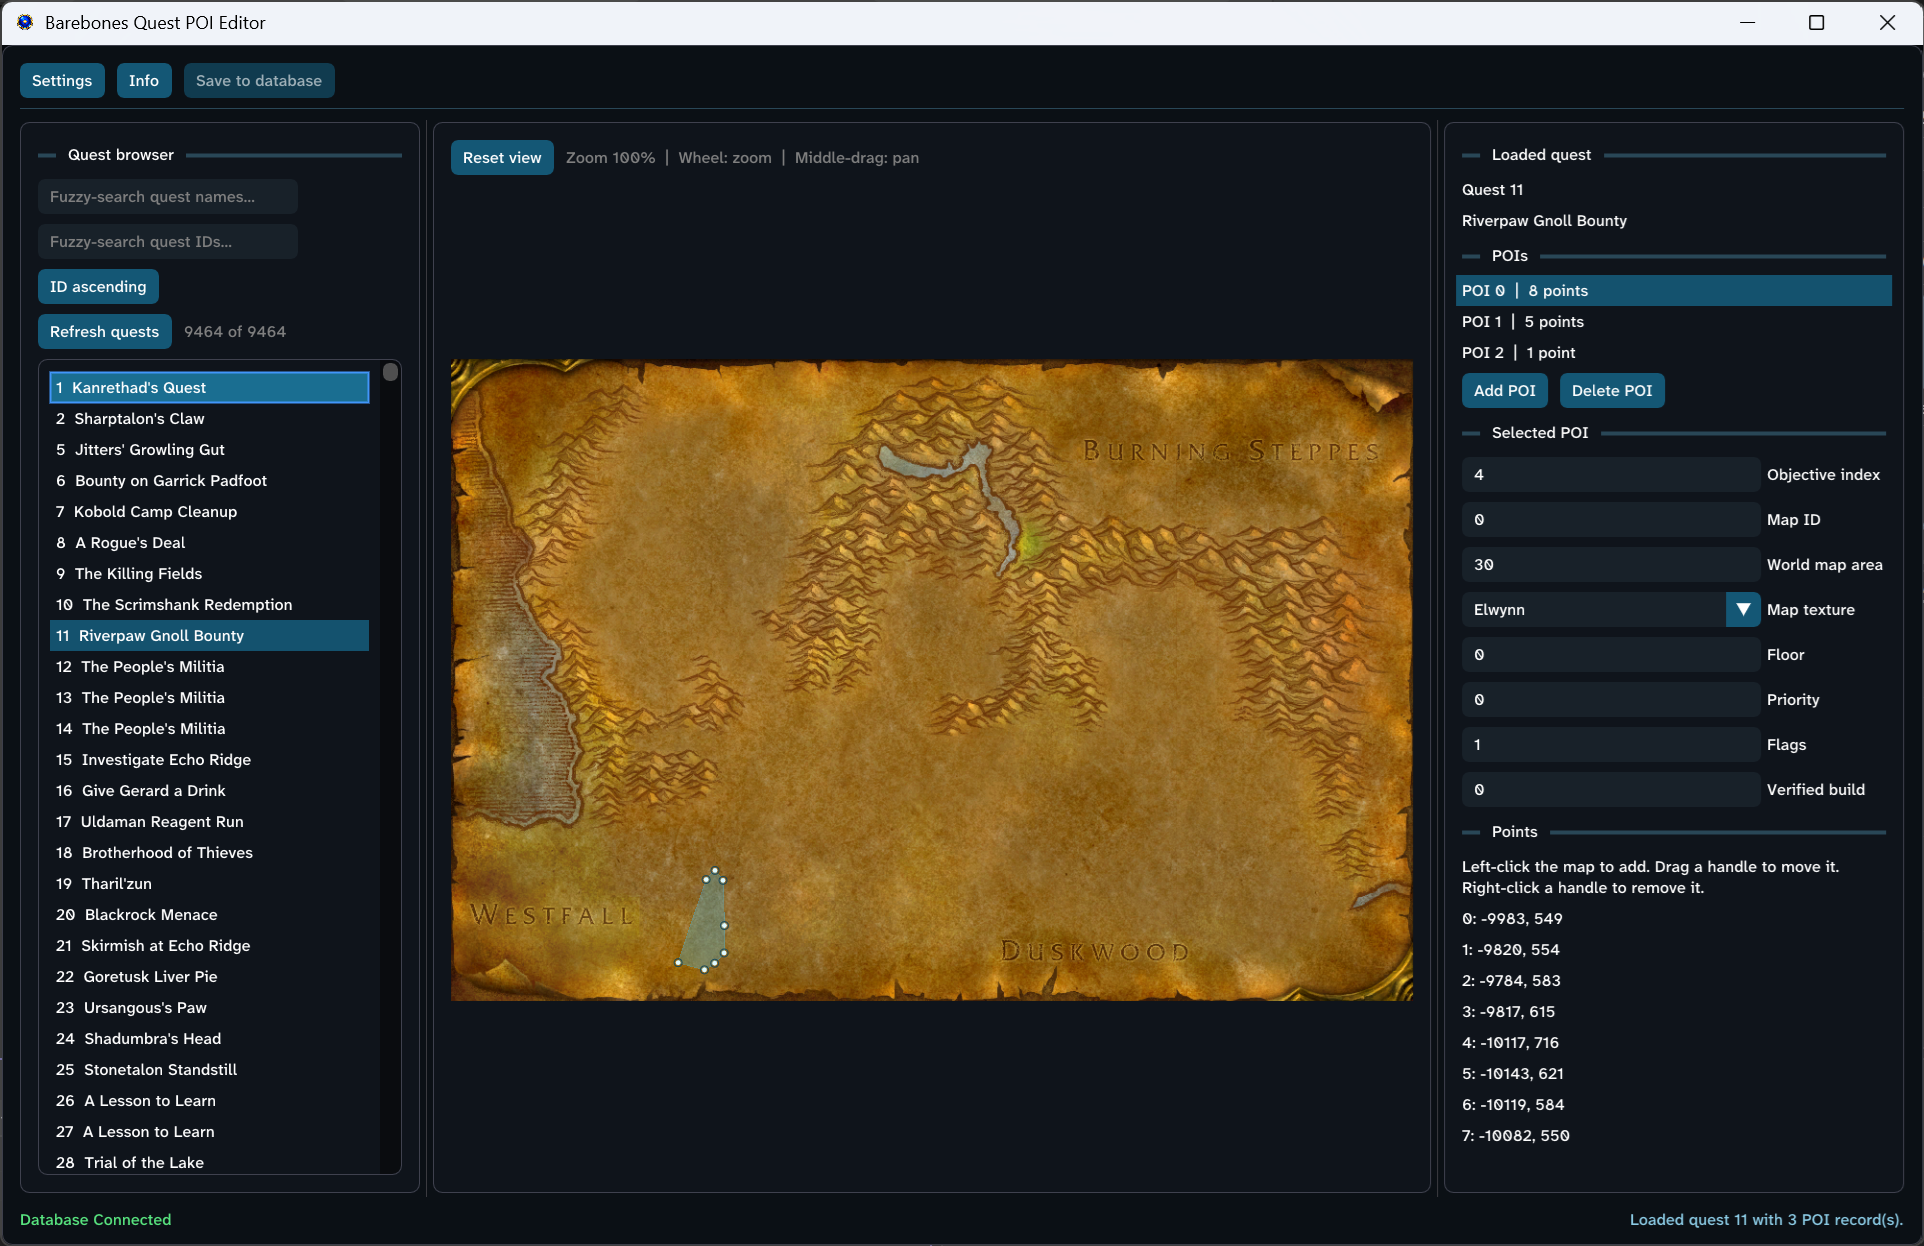
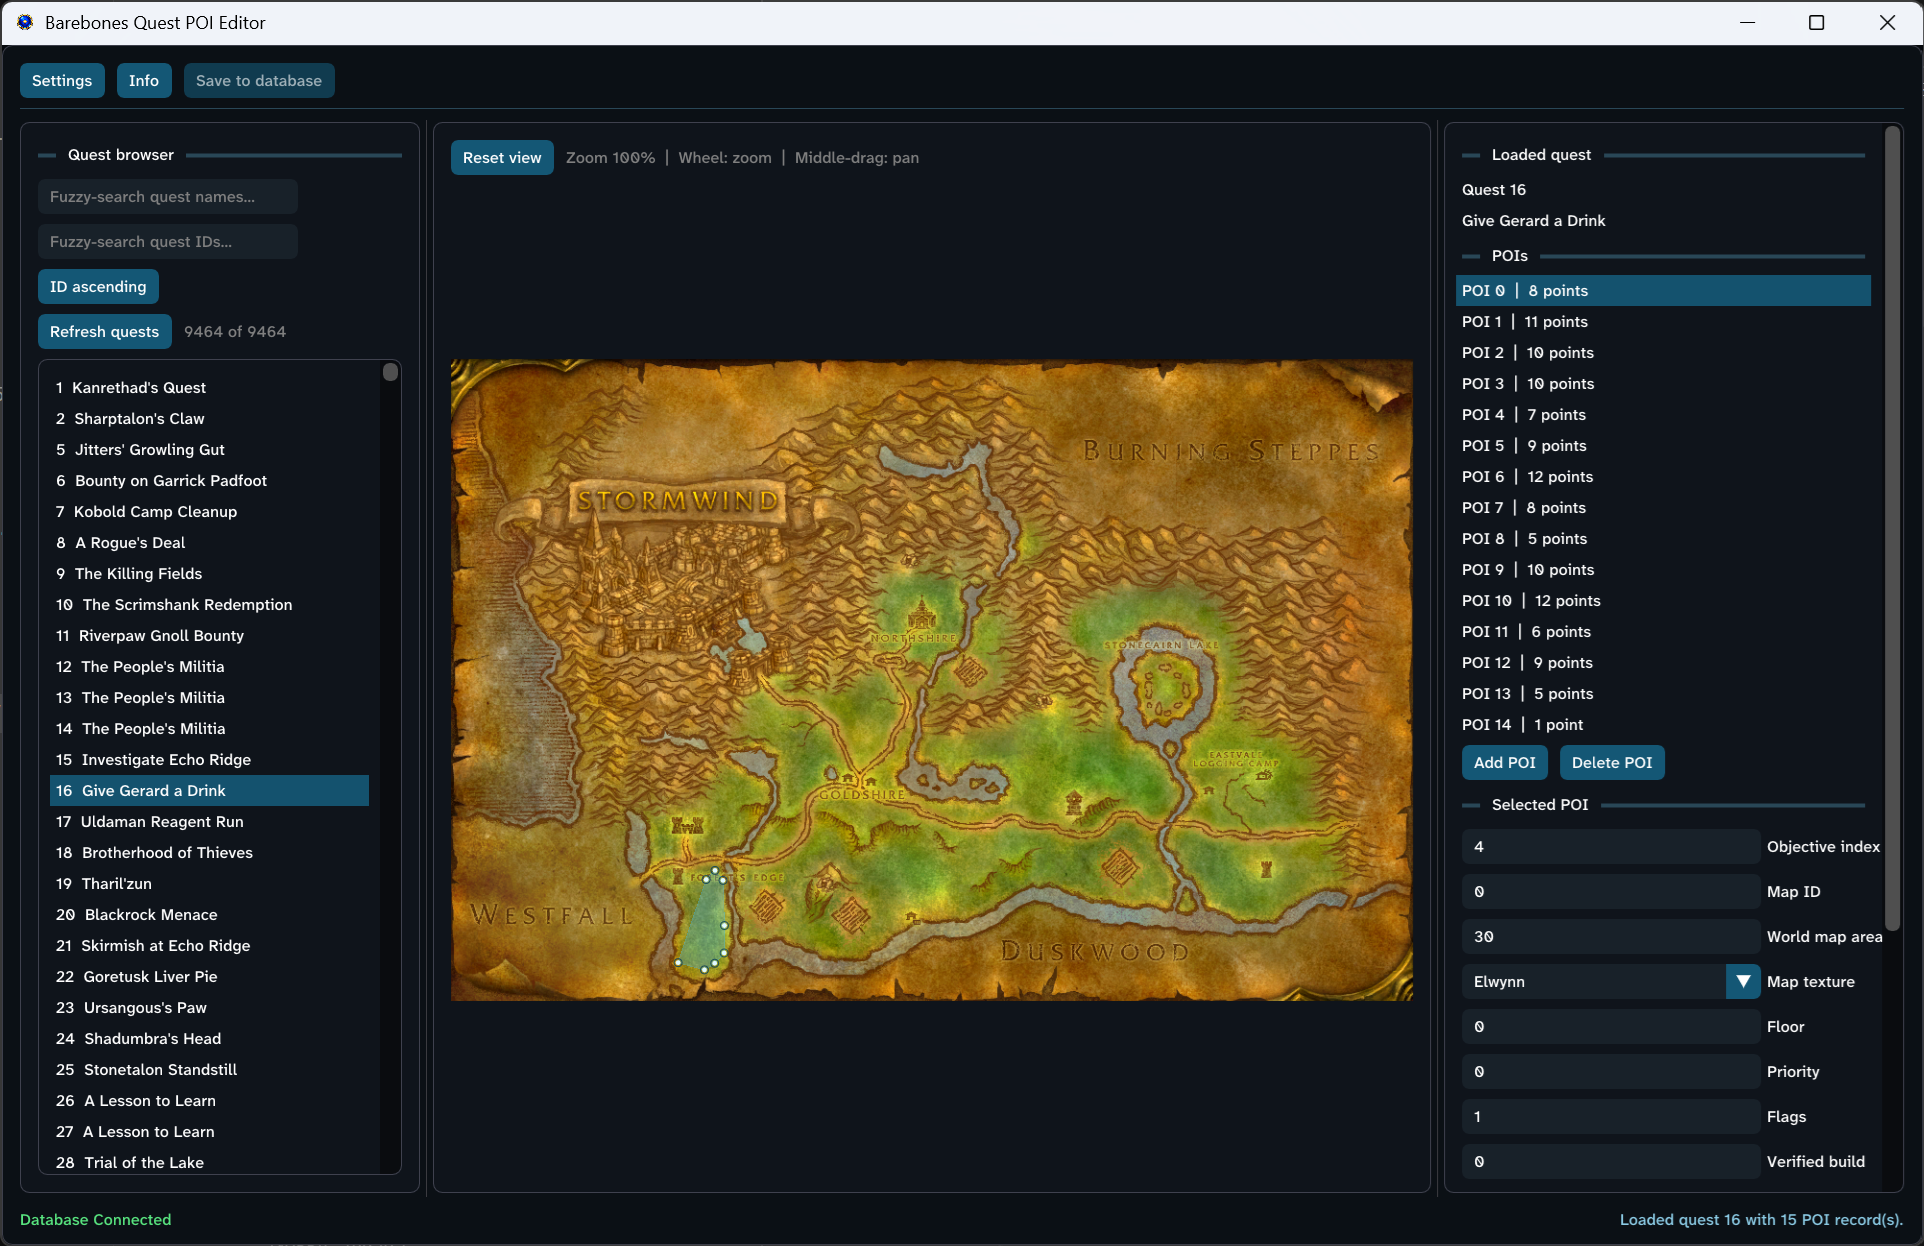
Fog of war removed

diff --git a/src/wow/WorldMap.cpp b/src/wow/WorldMap.cpp
@@ -1,5 +1,6 @@
 #include "wow/WorldMap.h"
 
+#include <algorithm>
 #include <bit>
 #include <cmath>
 #include <cstring>
@@ -110,32 +111,103 @@ std::vector<WorldMapArea> ParseWorldMapAreas(std::span<std::uint8_t const> dbc)
     return result;
 }
 
-RgbaImage StitchMapTiles(std::vector<RgbaImage> const& tiles)
+std::vector<WorldMapOverlay> ParseWorldMapOverlays(std::span<std::uint8_t const> dbc)
 {
-    constexpr std::uint32_t columns = 4;
-    constexpr std::uint32_t rows = 3;
+    DbcReader reader(dbc);
+    std::vector<WorldMapOverlay> result;
+    if (!reader.Valid() || reader.FieldCount() < 17)
+        return result;
+    result.reserve(reader.RecordCount());
+    for (std::uint32_t row = 0; row < reader.RecordCount(); ++row)
+    {
+        WorldMapOverlay overlay;
+        overlay.id = reader.Uint(row, 0);
+        overlay.mapAreaId = reader.Uint(row, 1);
+        for (std::size_t index = 0; index < overlay.areaIds.size(); ++index)
+            overlay.areaIds[index] = reader.Uint(row, static_cast<std::uint32_t>(2 + index));
+        overlay.textureName = reader.String(row, 8);
+        overlay.textureWidth = reader.Uint(row, 9);
+        overlay.textureHeight = reader.Uint(row, 10);
+        overlay.offsetX = reader.Int(row, 11);
+        overlay.offsetY = reader.Int(row, 12);
+        if (!overlay.textureName.empty() && overlay.textureWidth > 0 && overlay.textureHeight > 0)
+            result.push_back(std::move(overlay));
+    }
+    return result;
+}
+
+RgbaImage StitchImageTiles(std::vector<RgbaImage> const& tiles, std::uint32_t width, std::uint32_t height)
+{
     constexpr std::uint32_t tileSize = 256;
-    // The client lays twelve 256x256 textures on a 1002x668 canvas. The final
-    // column and row are clipped by the FrameXML, so crop the padded texels too.
-    RgbaImage output { 1002, 668 };
-    output.pixels.assign(static_cast<std::size_t>(output.width) * output.height * 4, 0);
-    for (std::size_t index = 0; index < tiles.size() && index < columns * rows; ++index)
+    if (width == 0 || height == 0 || width > 8192 || height > 8192)
+        return {};
+    auto const columns = (width + tileSize - 1) / tileSize;
+    auto const rows = (height + tileSize - 1) / tileSize;
+    if (columns == 0 || rows == 0 || static_cast<std::uint64_t>(columns) * rows > 1024)
+        return {};
+
+    RgbaImage output { width, height };
+    output.pixels.assign(static_cast<std::size_t>(width) * height * 4, 0);
+    for (std::size_t index = 0; index < tiles.size() && index < static_cast<std::size_t>(columns) * rows; ++index)
     {
         auto const& tile = tiles[index];
         if (tile.Empty())
             continue;
         auto const dstX = static_cast<std::uint32_t>(index % columns) * tileSize;
         auto const dstY = static_cast<std::uint32_t>(index / columns) * tileSize;
-        auto const copyWidth = std::min({ tile.width, tileSize, output.width - dstX });
-        auto const copyHeight = std::min({ tile.height, tileSize, output.height - dstY });
+        auto const copyWidth = std::min({ tile.width, tileSize, width - dstX });
+        auto const copyHeight = std::min({ tile.height, tileSize, height - dstY });
         for (std::uint32_t y = 0; y < copyHeight; ++y)
         {
             auto const* source = tile.pixels.data() + static_cast<std::size_t>(y) * tile.width * 4;
             auto* destination = output.pixels.data() +
-                (static_cast<std::size_t>(dstY + y) * output.width + dstX) * 4;
+                (static_cast<std::size_t>(dstY + y) * width + dstX) * 4;
             std::memcpy(destination, source, static_cast<std::size_t>(copyWidth) * 4);
         }
     }
     return output;
+}
+
+void AlphaComposite(RgbaImage& destination, RgbaImage const& source, std::int32_t offsetX, std::int32_t offsetY)
+{
+    if (destination.Empty() || source.Empty())
+        return;
+    for (std::uint32_t sourceY = 0; sourceY < source.height; ++sourceY)
+    {
+        auto const destinationY = static_cast<std::int64_t>(offsetY) + sourceY;
+        if (destinationY < 0 || destinationY >= destination.height)
+            continue;
+        for (std::uint32_t sourceX = 0; sourceX < source.width; ++sourceX)
+        {
+            auto const destinationX = static_cast<std::int64_t>(offsetX) + sourceX;
+            if (destinationX < 0 || destinationX >= destination.width)
+                continue;
+            auto const sourceAt = (static_cast<std::size_t>(sourceY) * source.width + sourceX) * 4;
+            auto const destinationAt = (static_cast<std::size_t>(destinationY) * destination.width +
+                static_cast<std::size_t>(destinationX)) * 4;
+            auto const sourceAlpha = static_cast<std::uint32_t>(source.pixels[sourceAt + 3]);
+            if (sourceAlpha == 0)
+                continue;
+            auto const inverseAlpha = 255u - sourceAlpha;
+            auto const destinationAlpha = static_cast<std::uint32_t>(destination.pixels[destinationAt + 3]);
+            auto const outputAlpha = sourceAlpha + (destinationAlpha * inverseAlpha + 127u) / 255u;
+            for (std::size_t channel = 0; channel < 3; ++channel)
+            {
+                auto const sourcePremultiplied = static_cast<std::uint32_t>(source.pixels[sourceAt + channel]) * sourceAlpha;
+                auto const destinationPremultiplied = static_cast<std::uint32_t>(destination.pixels[destinationAt + channel]) *
+                    destinationAlpha * inverseAlpha / 255u;
+                destination.pixels[destinationAt + channel] = outputAlpha == 0 ? 0 :
+                    static_cast<std::uint8_t>((sourcePremultiplied + destinationPremultiplied + outputAlpha / 2u) / outputAlpha);
+            }
+            destination.pixels[destinationAt + 3] = static_cast<std::uint8_t>(outputAlpha);
+        }
+    }
+}
+
+RgbaImage StitchMapTiles(std::vector<RgbaImage> const& tiles)
+{
+    // The client lays twelve 256x256 textures on a 1002x668 canvas. The final
+    // column and row are clipped by the FrameXML, so crop the padded texels too.
+    return StitchImageTiles(tiles, 1002, 668);
 }
 }

diff --git a/tests/CoreTests.cpp b/tests/CoreTests.cpp
@@ -3,6 +3,7 @@
 #include "wow/MpqArchive.h"
 #include "wow/WorldMap.h"
 
+#include <algorithm>
 #include <cassert>
 #include <cmath>
 #include <cstring>
@@ -46,6 +47,40 @@ int main()
     auto decoded = qpe::DecodeBlp(blp, decodeError);
     assert(!decoded.Empty() && decoded.pixels[3] == 0);
 
+    std::vector<std::uint8_t> overlayDbcFixture(20 + 17 * 4 + 11, 0);
+    std::memcpy(overlayDbcFixture.data(), "WDBC", 4);
+    auto putDbc32 = [&overlayDbcFixture](std::size_t at, std::uint32_t value) {
+        for (int byte = 0; byte < 4; ++byte)
+            overlayDbcFixture[at + byte] = static_cast<std::uint8_t>(value >> (byte * 8));
+    };
+    putDbc32(4, 1); putDbc32(8, 17); putDbc32(12, 17 * 4); putDbc32(16, 11);
+    auto const record = 20u;
+    putDbc32(record + 0 * 4, 7); putDbc32(record + 1 * 4, 42); putDbc32(record + 2 * 4, 8);
+    putDbc32(record + 8 * 4, 1); putDbc32(record + 9 * 4, 160); putDbc32(record + 10 * 4, 210);
+    putDbc32(record + 11 * 4, 382); putDbc32(record + 12 * 4, 281);
+    std::memcpy(overlayDbcFixture.data() + 20 + 17 * 4 + 1, "Astranaar", 9);
+    auto parsedOverlays = qpe::ParseWorldMapOverlays(overlayDbcFixture);
+    assert(parsedOverlays.size() == 1 && parsedOverlays[0].id == 7 && parsedOverlays[0].mapAreaId == 42);
+    assert(parsedOverlays[0].areaIds[0] == 8 && parsedOverlays[0].textureName == "Astranaar");
+    assert(parsedOverlays[0].textureWidth == 160 && parsedOverlays[0].textureHeight == 210);
+    assert(parsedOverlays[0].offsetX == 382 && parsedOverlays[0].offsetY == 281);
+
+    qpe::RgbaImage base { 2, 1, { 20, 40, 60, 255, 10, 20, 30, 255 } };
+    qpe::RgbaImage overlay { 2, 1, { 220, 140, 60, 128, 255, 0, 0, 0 } };
+    qpe::AlphaComposite(base, overlay, 0, 0);
+    assert(base.pixels[0] == 120 && base.pixels[1] == 90 && base.pixels[2] == 60 && base.pixels[3] == 255);
+    assert(base.pixels[4] == 10 && base.pixels[5] == 20 && base.pixels[6] == 30 && base.pixels[7] == 255);
+
+    qpe::RgbaImage redTile { 256, 1 };
+    redTile.pixels.assign(256 * 4, 0);
+    redTile.pixels[0] = redTile.pixels[3] = 255;
+    qpe::RgbaImage greenTile { 256, 1 };
+    greenTile.pixels.assign(256 * 4, 0);
+    greenTile.pixels[1] = greenTile.pixels[3] = 255;
+    auto tiled = qpe::StitchImageTiles({ redTile, greenTile }, 300, 1);
+    assert(tiled.width == 300 && tiled.height == 1);
+    assert(tiled.pixels[0] == 255 && tiled.pixels[256 * 4 + 1] == 255);
+
     if (auto const* client = std::getenv("QPE_CLIENT_PATH"))
     {
         qpe::MpqArchiveSet archives;
@@ -57,8 +92,12 @@ int main()
         assert(!dbc.empty());
         auto areas = qpe::ParseWorldMapAreas(dbc);
         assert(!areas.empty());
+        auto overlayDbc = archives.Read("DBFilesClient\\WorldMapOverlay.dbc", error);
+        assert(!overlayDbc.empty());
+        auto overlays = qpe::ParseWorldMapOverlays(overlayDbc);
+        assert(!overlays.empty());
         std::cout << "Client integration: " << archives.ArchiveCount() << " sources, "
-                  << areas.size() << " world-map areas\n";
+                  << areas.size() << " world-map areas, " << overlays.size() << " reveal overlays\n";
 
         std::vector<qpe::RgbaImage> grizzlyTiles;
         for (int tile = 1; tile <= 12; ++tile)
@@ -73,6 +112,43 @@ int main()
         auto grizzlyMap = qpe::StitchMapTiles(grizzlyTiles);
         assert(grizzlyMap.width == 1002 && grizzlyMap.height == 668 && !grizzlyMap.Empty());
         std::cout << "Client map decode: GrizzlyHills (12 tiles)\n";
+
+        bool decodedOverlay = false;
+        for (auto const& overlay : overlays)
+        {
+            auto area = std::find_if(areas.begin(), areas.end(), [&overlay](auto const& candidate) {
+                return candidate.id == overlay.mapAreaId;
+            });
+            if (area == areas.end())
+                continue;
+            auto const columns = (overlay.textureWidth + 255u) / 256u;
+            auto const rows = (overlay.textureHeight + 255u) / 256u;
+            auto const count = static_cast<std::size_t>(columns) * rows;
+            std::vector<qpe::RgbaImage> overlayTiles;
+            for (std::size_t tile = 1; tile <= count; ++tile)
+            {
+                auto const path = "Interface\\WorldMap\\" + area->textureName + "\\" +
+                    overlay.textureName + std::to_string(tile) + ".blp";
+                auto bytes = archives.Read(path, error);
+                if (bytes.empty())
+                    break;
+                auto image = qpe::DecodeBlp(bytes, error);
+                if (image.Empty())
+                    break;
+                overlayTiles.push_back(std::move(image));
+            }
+            if (overlayTiles.size() != count)
+                continue;
+            auto image = qpe::StitchImageTiles(overlayTiles, overlay.textureWidth, overlay.textureHeight);
+            assert(!image.Empty());
+            qpe::AlphaComposite(grizzlyMap, image, overlay.offsetX, overlay.offsetY);
+            std::cout << "Client overlay decode: " << area->textureName << "/" << overlay.textureName
+                      << " (" << count << " tile(s), " << overlay.textureWidth << "x"
+                      << overlay.textureHeight << " at " << overlay.offsetX << "," << overlay.offsetY << ")\n";
+            decodedOverlay = true;
+            break;
+        }
+        assert(decodedOverlay);
 
         bool decodedMap = false;
         for (auto const& area : areas)

diff --git a/src/app/EditorApp.cpp b/src/app/EditorApp.cpp
@@ -916,6 +916,8 @@ void EditorApp::SaveSettings()
 void EditorApp::ApplySettings(bool connectDatabase)
 {
     database_.Disconnect();
+    areas_.clear();
+    overlays_.clear();
     std::string mapError;
     bool mapLoaded = archives_.Open(PathFromUtf8(settings_.clientPath), settings_.locale, mapError);
     if (mapLoaded)
@@ -925,6 +927,14 @@ void EditorApp::ApplySettings(bool connectDatabase)
         mapLoaded = !areas_.empty();
         if (!mapLoaded && mapError.empty())
             mapError = "WorldMapArea.dbc is missing or invalid";
+        if (mapLoaded)
+        {
+            auto overlayDbc = archives_.Read("DBFilesClient\\WorldMapOverlay.dbc", mapError);
+            overlays_ = ParseWorldMapOverlays(overlayDbc);
+            mapLoaded = !overlays_.empty();
+            if (!mapLoaded && mapError.empty())
+                mapError = "WorldMapOverlay.dbc is missing or invalid";
+        }
     }
 
     bool databaseConnected = false;
@@ -949,10 +959,11 @@ void EditorApp::ApplySettings(bool connectDatabase)
     if (mapLoaded && (!connectDatabase || (databaseConnected && questListLoaded)))
     {
         if (databaseConnected)
-            SetStatus(std::format("Loaded {} map definitions, connected to database '{}', and loaded {} quests.",
-                areas_.size(), settings_.database.database, questList_.size()));
+            SetStatus(std::format("Loaded {} map definitions and {} reveal overlays, connected to database '{}', and loaded {} quests.",
+                areas_.size(), overlays_.size(), settings_.database.database, questList_.size()));
         else
-            SetStatus(std::format("Loaded {} map definitions from {} MPQ/override sources.", areas_.size(), archives_.ArchiveCount()));
+            SetStatus(std::format("Loaded {} map definitions and {} reveal overlays from {} MPQ/override sources.",
+                areas_.size(), overlays_.size(), archives_.ArchiveCount()));
         return;
     }
 
@@ -1185,6 +1196,58 @@ bool EditorApp::LoadMap(std::uint32_t worldMapAreaId, std::uint32_t floor)
         }
     }
     auto stitched = StitchMapTiles(tiles);
+    std::size_t loadedOverlays = 0;
+    std::size_t skippedOverlays = 0;
+    std::string overlayError;
+    auto const folder = "Interface\\WorldMap\\" + found->textureName + "\\";
+    for (auto const& overlay : overlays_)
+    {
+        if (overlay.mapAreaId != worldMapAreaId)
+            continue;
+        constexpr std::uint32_t tileSize = 256;
+        auto const columns = (overlay.textureWidth + tileSize - 1) / tileSize;
+        auto const rows = (overlay.textureHeight + tileSize - 1) / tileSize;
+        auto const tileCount = static_cast<std::size_t>(columns) * rows;
+        if (tileCount == 0 || tileCount > 1024)
+        {
+            ++skippedOverlays;
+            continue;
+        }
+
+        std::vector<RgbaImage> overlayTiles(tileCount);
+        bool complete = true;
+        for (std::size_t index = 1; index <= tileCount; ++index)
+        {
+            auto const path = folder + overlay.textureName + std::to_string(index) + ".blp";
+            auto bytes = archives_.Read(path, overlayError);
+            if (bytes.empty())
+            {
+                complete = false;
+                break;
+            }
+            std::string decodeError;
+            overlayTiles[index - 1] = DecodeBlp(bytes, decodeError);
+            if (overlayTiles[index - 1].Empty())
+            {
+                overlayError = decodeError;
+                complete = false;
+                break;
+            }
+        }
+        if (!complete)
+        {
+            ++skippedOverlays;
+            continue;
+        }
+        auto image = StitchImageTiles(overlayTiles, overlay.textureWidth, overlay.textureHeight);
+        if (image.Empty())
+        {
+            ++skippedOverlays;
+            continue;
+        }
+        AlphaComposite(stitched, image, overlay.offsetX, overlay.offsetY);
+        ++loadedOverlays;
+    }
     if (!UploadMap(stitched))
     {
         SetStatus("OpenGL could not create the stitched map texture.", true); return false;
@@ -1193,7 +1256,12 @@ bool EditorApp::LoadMap(std::uint32_t worldMapAreaId, std::uint32_t floor)
     mapZoom_ = 1.0f;
     mapPanX_ = 0.0f;
     mapPanY_ = 0.0f;
-    SetStatus(std::format("Loaded {} (WorldMapAreaId {}, floor {}).", found->textureName, worldMapAreaId, floor));
+    if (skippedOverlays > 0)
+        SetStatus(std::format("Loaded {} with {}/{} reveal overlays; the last overlay error was: {}",
+            found->textureName, loadedOverlays, loadedOverlays + skippedOverlays, overlayError), true);
+    else
+        SetStatus(std::format("Loaded {} with {} reveal overlay(s) (WorldMapAreaId {}, floor {}).",
+            found->textureName, loadedOverlays, worldMapAreaId, floor));
     return true;
 }
 

diff --git a/src/wow/WorldMap.h b/src/wow/WorldMap.h
@@ -2,6 +2,7 @@
 
 #include "Models.h"
 
+#include <array>
 #include <cstdint>
 #include <optional>
 #include <span>
@@ -35,6 +36,18 @@ struct WorldMapArea
     [[nodiscard]] Point NormalizedToWorld(float x, float y) const;
 };
 
+struct WorldMapOverlay
+{
+    std::uint32_t id = 0;
+    std::uint32_t mapAreaId = 0;
+    std::array<std::uint32_t, 4> areaIds {};
+    std::string textureName;
+    std::uint32_t textureWidth = 0;
+    std::uint32_t textureHeight = 0;
+    std::int32_t offsetX = 0;
+    std::int32_t offsetY = 0;
+};
+
 class DbcReader
 {
 public:
@@ -57,6 +70,9 @@ private:
 };
 
 [[nodiscard]] std::vector<WorldMapArea> ParseWorldMapAreas(std::span<std::uint8_t const> dbc);
+[[nodiscard]] std::vector<WorldMapOverlay> ParseWorldMapOverlays(std::span<std::uint8_t const> dbc);
 [[nodiscard]] RgbaImage StitchMapTiles(std::vector<RgbaImage> const& tiles);
+[[nodiscard]] RgbaImage StitchImageTiles(std::vector<RgbaImage> const& tiles,
+    std::uint32_t width, std::uint32_t height);
+void AlphaComposite(RgbaImage& destination, RgbaImage const& source, std::int32_t offsetX, std::int32_t offsetY);
 }
-

diff --git a/src/app/EditorApp.h b/src/app/EditorApp.h
@@ -66,6 +66,7 @@ private:
     Database database_;
     MpqArchiveSet archives_;
     std::vector<WorldMapArea> areas_;
+    std::vector<WorldMapOverlay> overlays_;
     Quest quest_;
     std::optional<Quest> cleanQuest_;
     std::vector<Quest> undoHistory_;

diff --git a/README.md b/README.md
@@ -9,6 +9,7 @@ A focused Windows and Linux editor for the `quest_poi` and `quest_poi_points` ta
 - Browse every quest in the connected world database.
 - Fuzzy-search quests by name and ID, with ascending or descending ID order.
 - Load a quest and its map automatically by selecting it in the browser.
+- Reconstruct the fully revealed map by alpha-blending the client-defined subzone overlays over its fogged base tiles.
 - Add, delete, and configure POIs and their ordered points.
 - Left-click to add points, drag points to move them, and right-click points to remove them.
 - Display a single point as a translucent blue marker and three or more points as a filled area.
